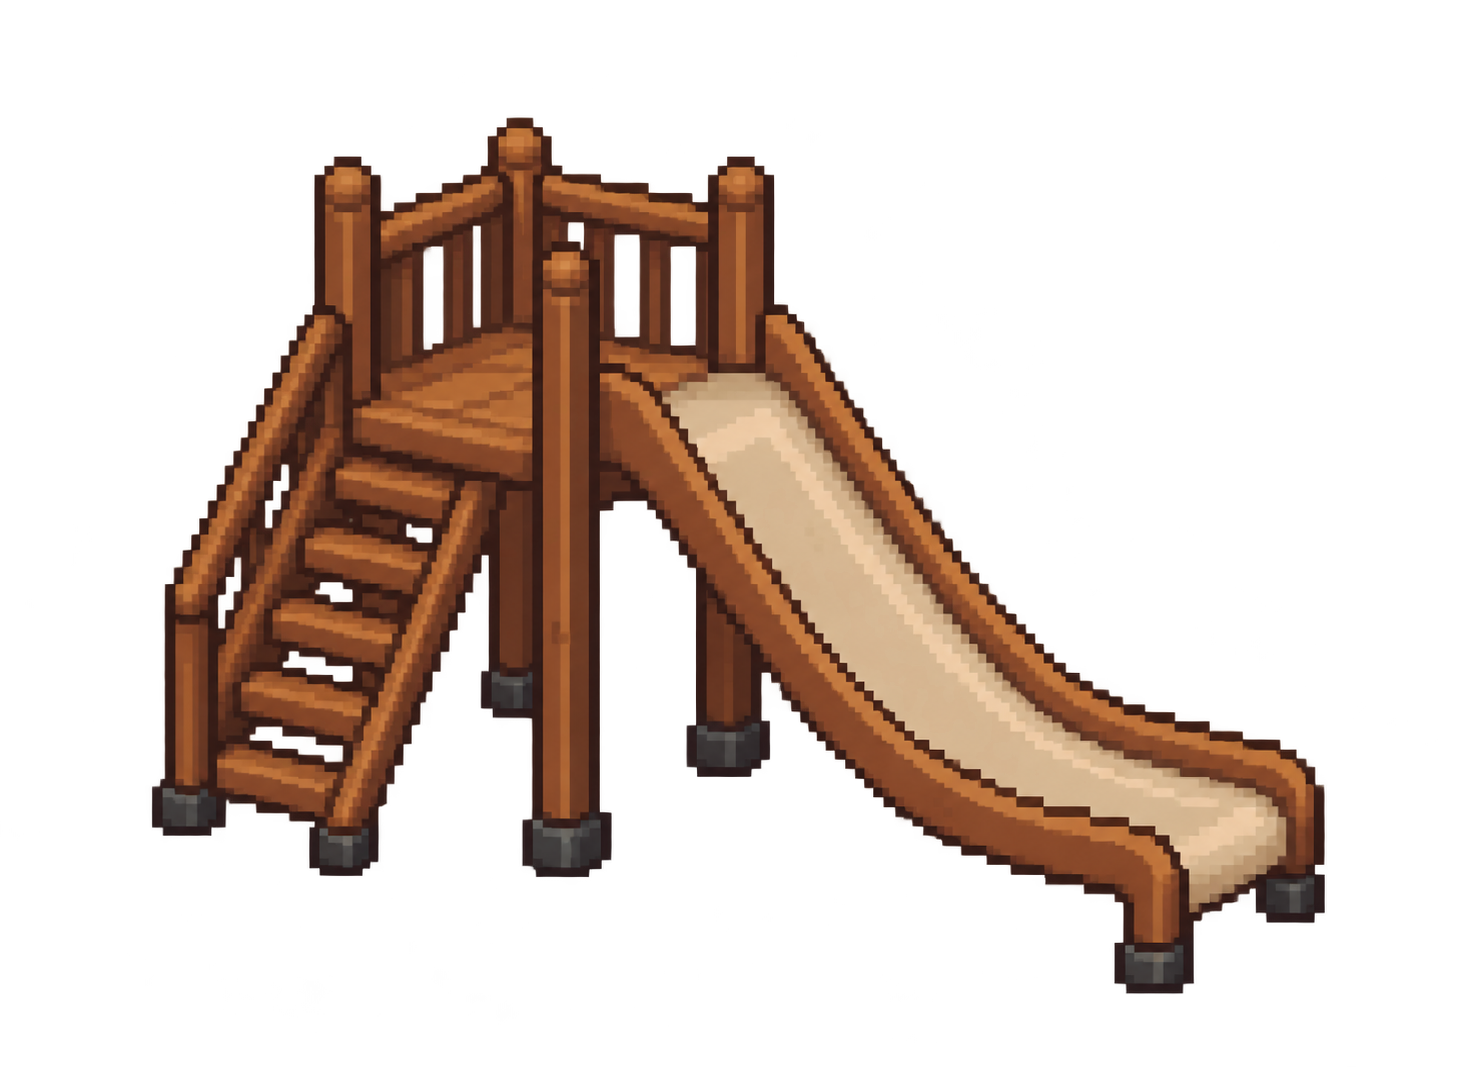
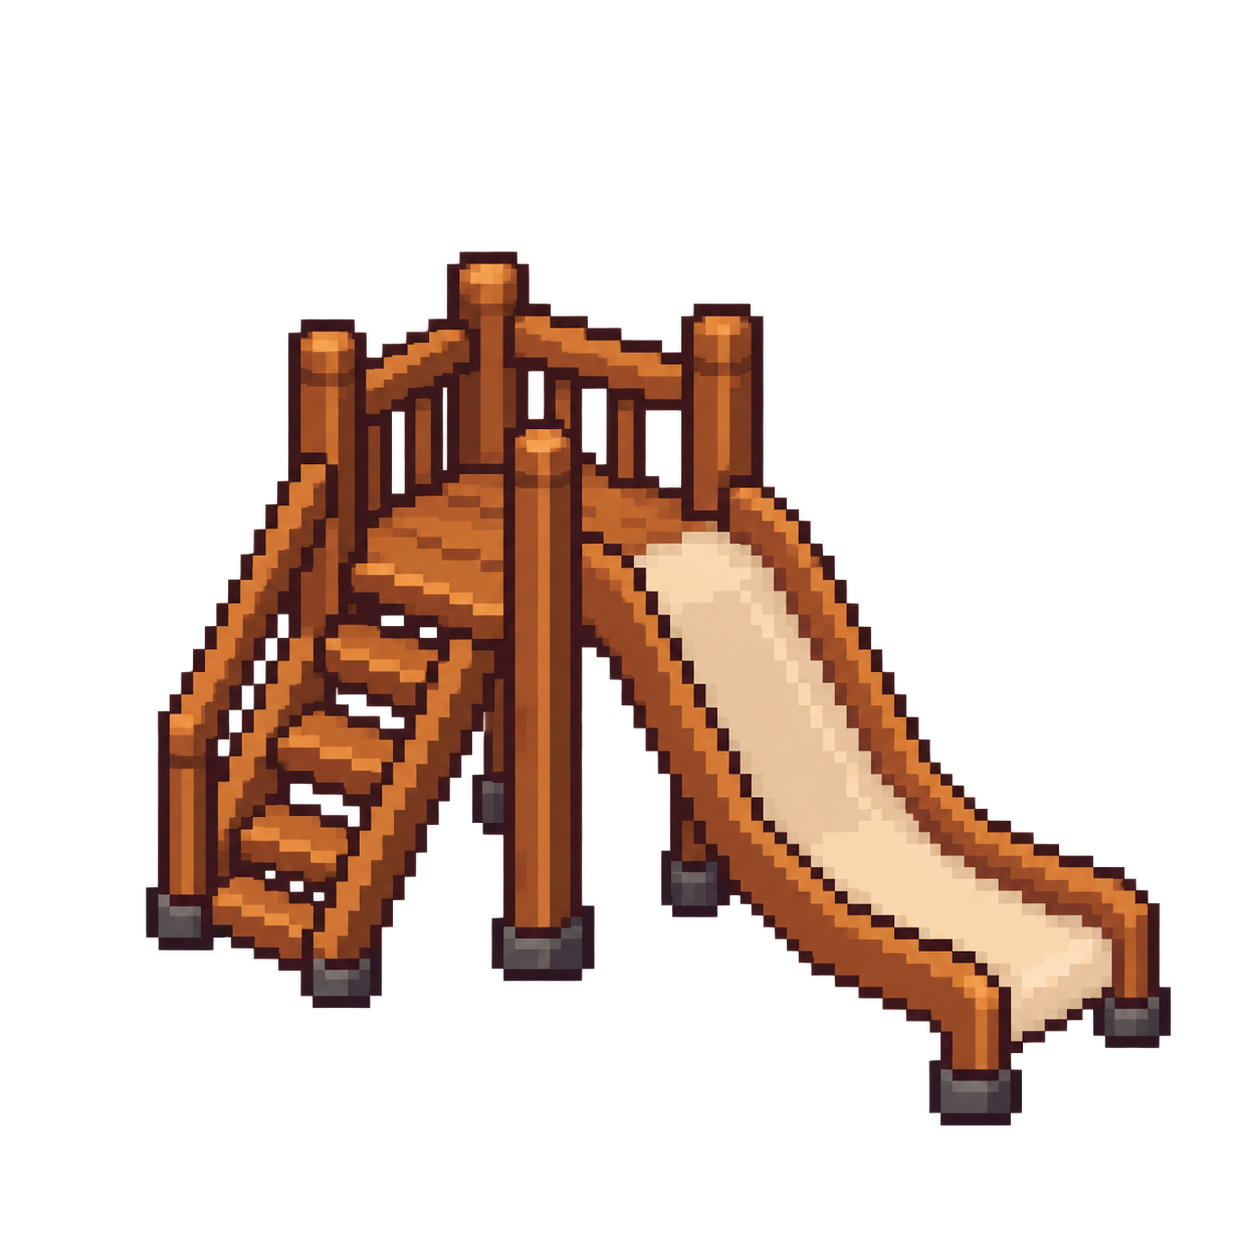
added a restart button and tasks list for user

Changed region(s): [[0.0933, 0.0928, 0.933, 0.9278]]

diff --git a/src/scenes/game-scene.js b/src/scenes/game-scene.js
@@ -1,8 +1,12 @@
 import Phaser from 'phaser';
-import { getPlayerVisual, getWorldState, initializeWorld, setDirectionDown, toggleHitboxes, updateWorld } from './game-world.js';
+import { getPlayerVisual, getWorldState, initializeWorld, resetProgress, setDirectionDown, toggleHitboxes, updateWorld } from './game-world.js';
 import { SCENE_KEYS } from './scene-keys.js';
+import { TASKS } from '../common/tasks.js';
 
 const DEPTH_UI = 10000;
+const HUD_TEXT = { color: '#3a2112', fontFamily: '"Courier New", monospace', fontStyle: 'bold' };
+const TASK_BUTTON = { x: 14, y: 12, w: 150, h: 46 };
+const TASK_PANEL = { x: 14, y: 66, w: 320, rowH: 46, rowGap: 8, header: 52, pad: 14 };
 const FOUNTAIN_FRAME_MS = 180;
 const WEEKDAYS = ['Mon', 'Tue', 'Wed', 'Thu', 'Fri', 'Sat', 'Sun'];
 
@@ -23,6 +27,8 @@ export class GameScene extends Phaser.Scene {
     this.createAreas();
     this.createPlayer();
     this.createHud();
+    this.createTaskPanel();
+    this.createRestartButton();
     this.createInput();
     this.createTransitionOverlay();
     this.setActiveArea(this.world.scene);
@@ -86,14 +92,136 @@ export class GameScene extends Phaser.Scene {
     this.add.image(width - 162, 37, this.getFrameTexture(this.world.frames.sun))
       .setDisplaySize(40, 40)
       .setDepth(DEPTH_UI);
-    this.hudWeatherIcon = this.add.image(width - 162, 92, this.getFrameTexture(this.world.frames.coin))
-      .setDisplaySize(34, 34)
-      .setDepth(DEPTH_UI);
-    this.hudWeatherIcon.setVisible(false);
     this.hudCoinIcon = this.add.image(width - 158, 92, this.getFrameTexture(this.world.frames.coin))
       .setDisplaySize(34, 34)
       .setDepth(DEPTH_UI);
     this.popTexts = [];
+  }
+
+  createRestartButton() {
+    const width = this.scale.width;
+    const x = width - 190 - 8 - 48;
+    const y = 68;
+    const graphics = this.add.graphics().setDepth(DEPTH_UI);
+    this.drawHudPanel(graphics, x, y, 48, 48);
+
+    // circular restart arrow
+    const cx = x + 24;
+    const cy = y + 24;
+    graphics.lineStyle(4, 0x3a2112, 1).beginPath()
+      .arc(cx, cy, 11, Phaser.Math.DegToRad(-60), Phaser.Math.DegToRad(250), false)
+      .strokePath();
+    const tip = Phaser.Math.DegToRad(-60);
+    const tx = cx + Math.cos(tip) * 11;
+    const ty = cy + Math.sin(tip) * 11;
+    graphics.fillStyle(0x3a2112, 1).fillTriangle(tx - 2, ty - 8, tx + 10, ty + 1, tx - 8, ty + 4);
+
+    this.add.zone(x, y, 48, 48)
+      .setOrigin(0)
+      .setDepth(DEPTH_UI)
+      .setInteractive({ useHandCursor: true })
+      .on('pointerdown', () => resetProgress());
+  }
+
+  drawHudPanel(graphics, x, y, w, h) {
+    graphics.fillStyle(0x3a2112, 1).fillRoundedRect(x, y, w, h, 8);
+    graphics.fillStyle(0xa8672c, 1).fillRoundedRect(x + 2, y + 2, w - 4, h - 4, 6);
+    graphics.fillStyle(0xf3dba2, 1).fillRoundedRect(x + 5, y + 5, w - 10, h - 10, 4);
+  }
+
+  createTaskPanel() {
+    const b = TASK_BUTTON;
+    const p = TASK_PANEL;
+    const panelH = p.header + TASKS.length * p.rowH + (TASKS.length - 1) * p.rowGap + p.pad;
+
+    this.taskOpen = false;
+
+    const button = this.add.graphics().setDepth(DEPTH_UI);
+    this.drawHudPanel(button, b.x, b.y, b.w, b.h);
+    // clipboard icon
+    button.fillStyle(0x3a2112, 1).fillRoundedRect(b.x + 14, b.y + 9, 22, 28, 3);
+    button.fillStyle(0xfff3d1, 1).fillRect(b.x + 17, b.y + 14, 16, 20);
+    button.fillStyle(0xa8672c, 1).fillRect(b.x + 20, b.y + 6, 10, 6);
+    button.fillStyle(0x3a2112, 1);
+    for (const lineY of [18, 24, 30]) button.fillRect(b.x + 19, b.y + lineY, 12, 2);
+    this.add.text(b.x + 46, b.y + b.h / 2, 'Tasks', { ...HUD_TEXT, fontSize: '19px' })
+      .setOrigin(0, 0.5)
+      .setDepth(DEPTH_UI);
+    this.taskArrow = this.add.graphics().setDepth(DEPTH_UI);
+
+    const dropdown = this.add.container(0, 0).setDepth(DEPTH_UI).setVisible(false);
+    const background = this.add.graphics();
+    this.drawHudPanel(background, p.x, p.y, p.w, panelH);
+    dropdown.add(background);
+    dropdown.add(this.add.text(p.x + p.w / 2, p.y + 28, "Today's Tasks", { ...HUD_TEXT, fontSize: '19px' })
+      .setOrigin(0.5));
+
+    this.taskRows = TASKS.map((task, index) => {
+      const x = p.x + 12;
+      const y = p.y + p.header + index * (p.rowH + p.rowGap);
+      const w = p.w - 24;
+      background.fillStyle(0xfff3d1, 1).fillRoundedRect(x, y, w, p.rowH, 8);
+      background.lineStyle(2, 0xd9b36b, 1).strokeRoundedRect(x, y, w, p.rowH, 8);
+      const hasBar = task.goal > 1;
+      const label = this.add.text(x + 46, y + (hasBar ? 6 : p.rowH / 2), task.label, { ...HUD_TEXT, fontSize: '15px' })
+        .setOrigin(0, hasBar ? 0 : 0.5);
+      const count = this.add.text(x + w - 12, y + p.rowH / 2, '', { ...HUD_TEXT, fontSize: '15px' })
+        .setOrigin(1, 0.5);
+      dropdown.add([label, count]);
+      return { task, x, y, w, label, count };
+    });
+    this.taskProgress = this.add.graphics();
+    dropdown.add(this.taskProgress);
+    this.taskDropdown = dropdown;
+
+    this.add.zone(b.x, b.y, b.w, b.h)
+      .setOrigin(0)
+      .setDepth(DEPTH_UI)
+      .setInteractive({ useHandCursor: true })
+      .on('pointerdown', () => {
+        this.taskOpen = !this.taskOpen;
+        this.taskDropdown.setVisible(this.taskOpen);
+      });
+  }
+
+  updateTaskPanel() {
+    const b = TASK_BUTTON;
+    const cx = b.x + b.w - 20;
+    const cy = b.y + b.h / 2;
+    this.taskArrow.clear().fillStyle(0x3a2112, 1);
+    if (this.taskOpen) this.taskArrow.fillTriangle(cx - 6, cy + 3, cx + 6, cy + 3, cx, cy - 4);
+    else this.taskArrow.fillTriangle(cx - 6, cy - 3, cx + 6, cy - 3, cx, cy + 4);
+
+    if (!this.taskOpen) return;
+    const { tasks } = this.world.game;
+    const g = this.taskProgress.clear();
+    for (const row of this.taskRows) {
+      const value = tasks[row.task.id];
+      const done = value >= row.task.goal;
+      row.count.setText(row.task.goal > 1 ? `${value}/${row.task.goal} +${row.task.reward}` : `+${row.task.reward}`);
+      row.label.setColor(done ? '#2f6b2f' : HUD_TEXT.color);
+
+      const boxX = row.x + 12;
+      const boxY = row.y + (TASK_PANEL.rowH - 20) / 2;
+      g.fillStyle(done ? 0x6fbf4a : 0xfff3d1, 1).fillRoundedRect(boxX, boxY, 20, 20, 4);
+      g.lineStyle(2, 0x3a2112, 1).strokeRoundedRect(boxX, boxY, 20, 20, 4);
+      if (done) {
+        g.lineStyle(3, 0x1f4d1f, 1).beginPath()
+          .moveTo(boxX + 4, boxY + 10)
+          .lineTo(boxX + 9, boxY + 15)
+          .lineTo(boxX + 16, boxY + 5)
+          .strokePath();
+      }
+
+      if (row.task.goal > 1) {
+        const barX = row.x + 46;
+        const barY = row.y + 29;
+        const barW = 150;
+        g.fillStyle(0xc9c2b0, 1).fillRoundedRect(barX, barY, barW, 9, 4);
+        if (value > 0) g.fillStyle(0x5fbf4a, 1).fillRoundedRect(barX, barY, Math.max(8, barW * (value / row.task.goal)), 9, 4);
+        g.lineStyle(1, 0x3a2112, 0.6).strokeRoundedRect(barX, barY, barW, 9, 4);
+      }
+    }
   }
 
   createInput() {
@@ -197,6 +325,7 @@ export class GameScene extends Phaser.Scene {
     this.updateAnimatedItems(time);
     this.updatePlayer();
     this.updateHud();
+    this.updateTaskPanel();
     this.updatePopups();
     this.updateTransition();
     this.updateDebugGraphics();
@@ -242,13 +371,10 @@ export class GameScene extends Phaser.Scene {
     const minuteText = String(minutes % 60).padStart(2, '0');
     const timeText = `${hour % 12 || 12}:${minuteText} ${hour < 12 ? 'AM' : 'PM'}`;
     const dayText = `${WEEKDAYS[(game.day - 1) % 7]} ${((game.day - 1) % 28) + 1}`;
-    const isDay = game.minutes >= 6 * 60 && game.minutes < 19 * 60;
 
     this.dayText.setText(dayText);
     this.timeText.setText(timeText);
     this.coinCountText.setText(String(game.coins));
-    this.hudWeatherIcon.setTexture(this.getFrameTexture(isDay ? this.world.frames.sun : this.world.frames.moon));
-    this.hudWeatherIcon.setVisible(true);
     this.hudCoinIcon.setY(92 - Math.round(game.coinBump * 3));
     this.coinCountText.setY(81 - Math.round(game.coinBump * 3));
   }
@@ -272,7 +398,7 @@ export class GameScene extends Phaser.Scene {
         return;
       }
       const progress = pop.t / 0.9;
-      text.setText('+10')
+      text.setText(pop.text)
         .setPosition(pop.x, pop.y - progress * 26)
         .setAlpha(1 - progress * progress)
         .setVisible(true);

diff --git a/src/scenes/game-world.js b/src/scenes/game-world.js
@@ -1,6 +1,7 @@
 import { createBuildingGenerator, isBlocked } from '../game-objects/building-generator.js';
 import { loadGame, saveGame } from '../common/save-data.js';
 import { GAME_CONFIG } from '../common/config.js';
+import { TASKS, emptyTaskProgress } from '../common/tasks.js';
 
 const canvas = document.createElement('canvas');
 canvas.width = GAME_CONFIG.width;
@@ -452,13 +453,12 @@ const PARK_ITEMS = [
   { tree: true, cx: 715, bottom: 695, h: 190 },
   { tree: true, cx: 1200, bottom: 650, h: 200 },
   // fountain plaza and slide
-  { frame: 'fountain0', anim: ['fountain0', 'fountain1', 'fountain2', 'fountain3'], cx: 465, y: 440, h: 210, hits: [[0.05, 0.3, 0.9, 0.7]] },
+  { frame: 'fountain0', anim: ['fountain0', 'fountain1', 'fountain2', 'fountain3'], cx: 465, y: 425, h: 125, hits: [[0.05, 0.3, 0.9, 0.7]] },
   { frame: 'slide', x: 880, y: 520, h: 150, hits: [[0.05, 0.55, 0.9, 0.45]] },
   // benches
-  { s: 'bench', x: 160, y: 250, ground: true, hits: BENCH_HITS },
+  { s: 'bench', x: 395, y: 618, ground: true, hits: BENCH_HITS },
   { s: 'bench', x: 770, y: 250, ground: true, hits: BENCH_HITS },
   { s: 'bench', x: 1020, y: 250, ground: true, hits: BENCH_HITS },
-  { s: 'bench', x: 130, y: 435, ground: true, hits: BENCH_HITS },
   { s: 'bench', x: 780, y: 440, ground: true, hits: BENCH_HITS },
   { s: 'bench', x: 1010, y: 440, ground: true, hits: BENCH_HITS },
   // wildflowers
@@ -553,6 +553,7 @@ function updateTransition(dt) {
   if (transition.phase === 'out') {
     const { to, spawn } = transition.exit;
     scene = scenes[to];
+    addTaskProgress(to);
     Object.assign(player, spawn, { moving: false, t: 0 });
     transition.phase = 'in';
     transition.t = 0;
@@ -734,11 +735,24 @@ function spawnCoins() {
   scene = active;
 }
 
+function addTaskProgress(id) {
+  const task = TASKS.find((t) => t.id === id);
+  if (!task || game.tasks[id] >= task.goal) return;
+  game.tasks[id] += 1;
+  if (game.tasks[id] >= task.goal) {
+    game.coins += task.reward;
+    game.coinBump = 1;
+    pops.push({ x: player.x, y: player.y - 70, t: 0, text: `Task done! +${task.reward}` });
+  }
+  saveGame(game);
+}
+
 function updateGame(dt) {
   game.minutes += CLOCK_RATE * dt;
   if (game.minutes >= DAY_END) {
     game.day += 1;
     game.minutes = DAY_START;
+    game.tasks = emptyTaskProgress();
     spawnCoins();
     saveGame(game);
   }
@@ -750,7 +764,8 @@ function updateGame(dt) {
       c.got = true;
       game.coins += COIN_VALUE;
       game.coinBump = 1;
-      pops.push({ x: c.x, y: c.y - 30, t: 0 });
+      addTaskProgress('coins');
+      pops.push({ x: c.x, y: c.y - 30, t: 0, text: `+${COIN_VALUE}` });
       saveGame(game);
     }
   }
@@ -759,6 +774,15 @@ function updateGame(dt) {
 
   saveTimer += dt;
   if (saveTimer > 5) { saveTimer = 0; saveGame(game); }
+}
+
+export function resetProgress() {
+  game.coins = 0;
+  game.coinBump = 0;
+  game.tasks = emptyTaskProgress();
+  pops.length = 0;
+  spawnCoins();
+  saveGame(game);
 }
 
 export function initializeWorld(assets) {

diff --git a/src/common/save-data.js b/src/common/save-data.js
@@ -1,13 +1,16 @@
+import { emptyTaskProgress, sanitizeTaskProgress } from './tasks.js';
+
 const GAME_SAVE_KEY = 'moonlightCafeSave';
 
 export function loadGame() {
-  const game = { coins: 0, day: 1, minutes: 9 * 60 + 30, coinBump: 0 };
+  const game = { coins: 0, day: 1, minutes: 9 * 60 + 30, coinBump: 0, tasks: emptyTaskProgress() };
   try {
     const saved = JSON.parse(localStorage.getItem(GAME_SAVE_KEY));
     if (saved) {
       game.coins = saved.coins | 0;
       game.day = Math.max(1, saved.day | 0);
       game.minutes = Math.min(Math.max(saved.minutes || 6 * 60, 6 * 60), 26 * 60 - 1);
+      game.tasks = sanitizeTaskProgress(saved.tasks);
     }
   } catch {
     // Ignore invalid or unavailable saved game data.
@@ -21,6 +24,7 @@ export function saveGame(game) {
       coins: game.coins,
       day: game.day,
       minutes: Math.floor(game.minutes),
+      tasks: game.tasks,
     }));
   } catch {
     // Saving is optional when browser storage is unavailable.

diff --git a/src/common/tasks.js b/src/common/tasks.js
@@ -1,0 +1,20 @@
+// Task ids for place visits match scene names, so entering a scene completes its task.
+export const TASKS = [
+  { id: 'coins', label: 'Collect 5 coins', goal: 5, reward: 50 },
+  { id: 'library', label: 'Visit the library', goal: 1, reward: 20 },
+  { id: 'shop', label: 'Visit the flower shop', goal: 1, reward: 20 },
+  { id: 'park', label: 'Visit the park', goal: 1, reward: 20 },
+];
+
+export function emptyTaskProgress() {
+  return Object.fromEntries(TASKS.map((task) => [task.id, 0]));
+}
+
+export function sanitizeTaskProgress(saved) {
+  const progress = emptyTaskProgress();
+  if (!saved || typeof saved !== 'object') return progress;
+  for (const task of TASKS) {
+    progress[task.id] = Math.min(task.goal, Math.max(0, saved[task.id] | 0));
+  }
+  return progress;
+}
